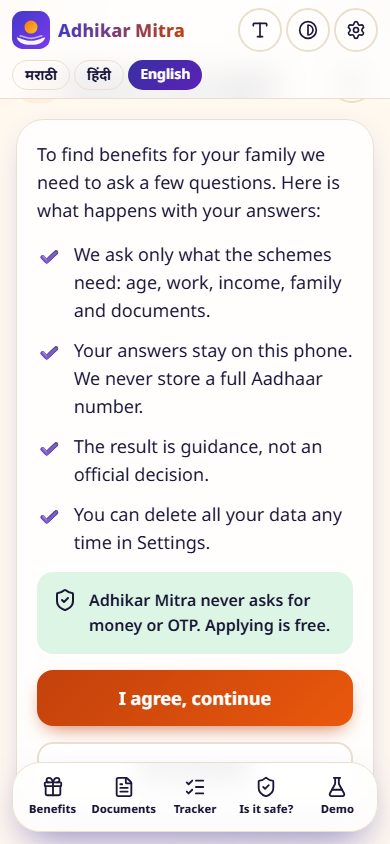
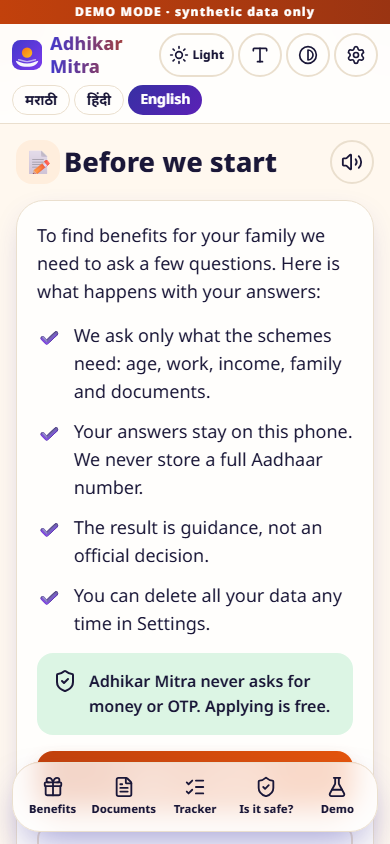
feat(ui): Light/Dark/Auto theme (Light default); fix: instant loading feedback, bundled fonts, npm run demo
fix: first page visits in dev mode looked frozen (compile time); add loading screen, busy state and a one-command production demo
fix: self-hosted Noto fonts so build and run never need the internet
test(e2e): theme toggle, persistence and dark-mode contrast audit
fix(a11y): danger button contrast in dark theme

diff --git a/src/app/page.tsx b/src/app/page.tsx
@@ -1,8 +1,9 @@
 "use client";
 import { Volume2 } from "lucide-react";
 import { useRouter } from "next/navigation";
-import { useEffect } from "react";
+import { useEffect, useState } from "react";
 import { HeroOrbit, Logo } from "@/components/fx";
+import { ThemeToggle } from "@/components/ThemeToggle";
 import { APP } from "@/config/app";
 import { LOCALES, LOCALE_NAMES, translate, type Locale } from "@/lib/i18n";
 import { patch, useAppState } from "@/lib/store";
@@ -18,13 +19,16 @@ export default function LanguagePage() {
   useEffect(() => {
     document.body.dataset.hydrated = "1"; // end-to-end tests wait for this
   }, []);
+  const [busy, setBusy] = useState<Locale | null>(null);
   const choose = (l: Locale) => {
+    setBusy(l); // instant feedback: the first page visit can take a moment while it loads
     patch({ locale: l });
     const hasFamily = s.consent && s.families.length > 0;
     router.push(`/${l}/${hasFamily ? "benefits" : "consent"}`);
   };
   return (
     <main className="mx-auto flex min-h-dvh max-w-xl flex-col gap-5 px-4 py-5">
+      <div className="flex justify-end"><ThemeToggle /></div>
       <section className="hero rise px-5 pb-6 pt-6 text-center">
         <div className="mb-1 flex items-center justify-center gap-3">
           <Logo size={46} />
@@ -50,7 +54,7 @@ export default function LanguagePage() {
               className="btn btn-primary flex-1 !min-h-[5rem] !justify-start gap-4 !px-4 !text-3xl"
             >
               <span aria-hidden className="inline-flex h-14 w-14 items-center justify-center rounded-2xl text-2xl" style={{ background: "var(--grad-sun)" }}>{GLYPH[l]}</span>
-              {LOCALE_NAMES[l]}
+              {busy === l ? "…" : LOCALE_NAMES[l]}
             </button>
             <button
               onClick={() => speak(`${LOCALE_NAMES[l]}`, l)} aria-label={`${translate(l, "a11y.readAloud")}: ${LOCALE_NAMES[l]}`}
@@ -61,6 +65,13 @@ export default function LanguagePage() {
           </li>
         ))}
       </ul>
+      {busy && (
+        <div className="fixed inset-0 z-50 flex flex-col items-center justify-center gap-4 text-white" style={{ background: "var(--grad-hero)" }} role="status" aria-live="polite">
+          <Logo size={72} />
+          <div className="h-2 w-48 overflow-hidden rounded-full bg-white/25"><div className="h-2 w-1/2 animate-pulse rounded-full" style={{ background: "var(--grad-sun)" }} /></div>
+          <p className="text-lg font-bold">{translate(busy, "common.loading")}</p>
+        </div>
+      )}
       <p className="rise rise-4 text-center text-sm font-bold">🛡 {translate("en", "footer.noMoney")}</p>
     </main>
   );

diff --git a/tests/e2e/theme.spec.ts b/tests/e2e/theme.spec.ts
@@ -1,0 +1,41 @@
+import AxeBuilder from "@axe-core/playwright";
+import { expect, test } from "@playwright/test";
+
+/** Light is the default; the toggle switches to Dark and Auto; the choice survives a reload with no flash of the wrong theme. */
+test("theme: light by default, toggle to dark, persists, and dark passes the contrast audit", async ({ page }) => {
+  // The phone itself prefers dark, but the app still starts in Light.
+  await page.emulateMedia({ colorScheme: "dark" });
+  await page.goto("/en/login");
+  await page.waitForSelector('body[data-hydrated="1"]');
+  expect(await page.evaluate(() => document.documentElement.classList.contains("dark"))).toBe(false);
+
+  await page.getByTestId("persona-ramesh").click();
+  await page.waitForURL(/benefits/);
+  const toggle = page.getByTestId("theme-toggle");
+  await expect(toggle).toHaveAttribute("aria-label", /Light/);
+  await toggle.click(); // Light -> Dark
+  await expect(page.locator("html")).toHaveClass(/dark/);
+  await expect(toggle).toHaveAttribute("aria-label", /Dark/);
+
+  await page.reload();
+  await page.waitForSelector('body[data-hydrated="1"]');
+  await expect(page.locator("html")).toHaveClass(/dark/);
+
+  for (const s of ["benefits", "documents", "tracker", "scam-check", "settings"]) {
+    await page.goto(`/en/${s}`);
+    await page.waitForSelector('body[data-hydrated="1"]');
+    await page.waitForTimeout(1200);
+    const r = await new AxeBuilder({ page }).withTags(["wcag2a", "wcag2aa"]).exclude(".leaflet-container").analyze();
+    const bad = r.violations.filter((v) => v.impact === "serious" || v.impact === "critical")
+      .map((v) => `${s}: ${v.id} :: ${v.nodes.slice(0, 2).map((n) => `${n.target.join(" ")} ${(n.any[0]?.message ?? "").slice(0, 90)}`).join(" || ")}`);
+    expect(bad, bad.join("\n")).toEqual([]);
+  }
+
+  // Auto follows the phone (which prefers dark here), then Light again.
+  await page.goto("/en/settings");
+  await page.waitForSelector('body[data-hydrated="1"]');
+  await page.getByTestId("theme-light").click();
+  await expect(page.locator("html")).not.toHaveClass(/dark/);
+  await page.getByTestId("theme-system").click();
+  await expect(page.locator("html")).toHaveClass(/dark/);
+});

diff --git a/src/app/globals.css b/src/app/globals.css
@@ -23,6 +23,7 @@
   --success: #166534;
   --success-soft: #dcf5e4;
   --danger: #b91c1c;
+  --danger-fg: #ffffff;
   --danger-soft: #fde8e8;
   --warn-soft: #fff4c7;
   --ring: #c2410c;
@@ -31,26 +32,27 @@
   --grad-sun: linear-gradient(135deg, #f97316 0%, #fbbf24 100%);
   --grad-ok: linear-gradient(135deg, #16a34a, #2dd4bf);
 }
-@media (prefers-color-scheme: dark) {
-  :root:not(.light) {
-    --bg: #0f0e1d;
-    --fg: #f3f0ea;
-    --card: #1b1a30;
-    --card-glass: rgba(27, 26, 48, 0.78);
-    --muted: #b8b5d2;
-    --border: #35334f;
-    --primary: #a5b4fc;
-    --primary-fg: #12111f;
-    --accent: #fb923c;
-    --accent-fg: #1b1a30;
-    --accent-soft: #3a2415;
-    --success: #4ade80;
-    --success-soft: #12301d;
-    --danger: #f87171;
-    --danger-soft: #3a1717;
-    --warn-soft: #3a3314;
-    --shadow: 0 10px 30px -12px rgba(0, 0, 0, 0.7);
-  }
+/* Dark theme is applied with the `dark` class (set from the Light / Dark / System choice, see ThemeScript). */
+:root.dark {
+  color-scheme: dark;
+  --bg: #0f0e1d;
+  --fg: #f3f0ea;
+  --card: #1b1a30;
+  --card-glass: rgba(27, 26, 48, 0.78);
+  --muted: #b8b5d2;
+  --border: #35334f;
+  --primary: #a5b4fc;
+  --primary-fg: #12111f;
+  --accent: #fb923c;
+  --accent-fg: #1b1a30;
+  --accent-soft: #3a2415;
+  --success: #4ade80;
+  --success-soft: #12301d;
+  --danger: #f87171;
+  --danger-fg: #2a0a0a;
+  --danger-soft: #3a1717;
+  --warn-soft: #3a3314;
+  --shadow: 0 10px 30px -12px rgba(0, 0, 0, 0.7);
 }
 .high-contrast {
   --bg: #ffffff; --fg: #000000; --card: #ffffff; --card-glass: #ffffff; --muted: #1a1a1a; --border: #000000;
@@ -62,7 +64,8 @@ html.large-text { font-size: 20px; }
 body {
   background: var(--bg);
   color: var(--fg);
-  font-family: var(--font-noto), var(--font-noto-deva), system-ui, sans-serif;
+  /* Fonts are bundled locally (@fontsource), so the app never needs the internet to render text. */
+  font-family: "Noto Sans Variable", "Noto Sans Devanagari Variable", "Nirmala UI", system-ui, sans-serif;
   line-height: 1.55;
   min-height: 100dvh;
 }

diff --git a/src/app/[locale]/settings/page.tsx b/src/app/[locale]/settings/page.tsx
@@ -32,6 +32,19 @@ export default function SettingsPage() {
           ))}
         </div>
       </section>
+      <section className="card mb-4" aria-labelledby="theme-h">
+        <h2 id="theme-h" className="mb-2 text-lg font-bold">{t("set.theme")}</h2>
+        <div className="grid grid-cols-3 gap-2" role="radiogroup" aria-label={t("set.theme")}>
+          {(["light", "dark", "system"] as const).map((th) => (
+            <button
+              key={th} role="radio" aria-checked={s.theme === th} onClick={() => patch({ theme: th })} data-testid={`theme-${th}`}
+              className={`btn !min-h-[3.5rem] !px-2 !text-base ${s.theme === th ? "btn-primary" : "btn-ghost"}`}
+            >
+              <span aria-hidden>{th === "light" ? "☀" : th === "dark" ? "🌙" : "🖥"}</span> {t(`theme.${th}`)}
+            </button>
+          ))}
+        </div>
+      </section>
       <section className="card mb-4 flex flex-col gap-3">
         <h2 className="text-lg font-bold">{t("set.display")}</h2>
         <label className="flex items-center gap-3 text-lg"><input type="checkbox" className="h-6 w-6" checked={s.largeText} onChange={(e) => patch({ largeText: e.target.checked })} /> {t("a11y.largeText")}</label>
@@ -41,7 +54,7 @@ export default function SettingsPage() {
         <h2 className="mb-2 text-lg font-bold">{t("set.privacy")}</h2>
         <p>{t("set.privacyText")}</p>
         <p className="mt-2 text-sm muted">{t("set.stored", { n: s.families.length })}</p>
-        <button className="btn mt-3 w-full" style={{ background: "var(--danger)", color: "#fff" }} onClick={deleteAll} data-testid="delete-data">🗑 {t("set.delete")}</button>
+        <button className="btn mt-3 w-full" style={{ background: "var(--danger)", color: "var(--danger-fg)" }} onClick={deleteAll} data-testid="delete-data">🗑 {t("set.delete")}</button>
         {deleted && <p className="mt-2 font-bold" role="status" data-testid="deleted">{t("set.deleted")}</p>}
       </section>
       <section className="card text-sm">

diff --git a/src/components/ThemeToggle.tsx b/src/components/ThemeToggle.tsx
@@ -1,0 +1,36 @@
+"use client";
+import { Monitor, Moon, Sun } from "lucide-react";
+import { useEffect } from "react";
+import { translate, useLocaleOr } from "@/lib/i18n";
+import { patch, useAppState } from "@/lib/store";
+
+/**
+ * Light / Dark / System switch. Light is the default. "System" follows the phone and reacts to changes.
+ * The class on <html> is also set before first paint by the inline script in the root layout.
+ */
+export function ThemeToggle({ className = "", onDark = false }: { className?: string; onDark?: boolean }) {
+  const s = useAppState();
+  const locale = useLocaleOr();
+  useEffect(() => {
+    const mq = window.matchMedia("(prefers-color-scheme: dark)");
+    const apply = () => document.documentElement.classList.toggle("dark", s.theme === "dark" || (s.theme === "system" && mq.matches));
+    apply();
+    if (s.theme !== "system") return;
+    mq.addEventListener("change", apply);
+    return () => mq.removeEventListener("change", apply);
+  }, [s.theme]);
+
+  const label = `${translate(locale, "a11y.theme")}: ${translate(locale, `theme.${s.theme}`)}`;
+  const next = s.theme === "light" ? "dark" : s.theme === "dark" ? "system" : "light";
+  const Icon = s.theme === "light" ? Sun : s.theme === "dark" ? Moon : Monitor;
+  return (
+    <button
+      type="button" data-testid="theme-toggle" aria-label={label} title={label} onClick={() => patch({ theme: next })}
+      className={`inline-flex h-11 min-w-11 items-center justify-center gap-1 rounded-full border-2 px-2 ${className}`}
+      style={{ borderColor: onDark ? "rgba(255,255,255,.5)" : "var(--border)", color: onDark ? "#fff" : undefined }}
+    >
+      <Icon aria-hidden size={20} />
+      <span className="text-xs font-extrabold">{translate(locale, `theme.${s.theme}`)}</span>
+    </button>
+  );
+}

diff --git a/src/app/layout.tsx b/src/app/layout.tsx
@@ -1,10 +1,8 @@
 import type { Metadata, Viewport } from "next";
-import { Noto_Sans, Noto_Sans_Devanagari } from "next/font/google";
+import "@fontsource-variable/noto-sans";
+import "@fontsource-variable/noto-sans-devanagari";
 import { APP } from "@/config/app";
 import "./globals.css";
-
-const noto = Noto_Sans({ subsets: ["latin"], variable: "--font-noto", display: "swap" });
-const notoDeva = Noto_Sans_Devanagari({ subsets: ["devanagari"], variable: "--font-noto-deva", display: "swap" });
 
 export const metadata: Metadata = {
   title: `${APP.name} (${APP.nameLocal})`,
@@ -13,9 +11,20 @@ export const metadata: Metadata = {
 };
 export const viewport: Viewport = { width: "device-width", initialScale: 1, themeColor: "#3730a3" };
 
+/**
+ * Applies the saved Light / Dark / System choice before first paint, so there is no flash of the wrong theme.
+ * The default is Light. Storage can be unavailable (private mode), so everything is wrapped in try/catch.
+ */
+const THEME_SCRIPT = `(function(){try{var t="light";try{var s=JSON.parse(localStorage.getItem("adhikar-mitra:v1")||"{}");if(s&&s.theme)t=s.theme}catch(e){}
+var d=t==="dark"||(t==="system"&&window.matchMedia&&window.matchMedia("(prefers-color-scheme: dark)").matches);
+document.documentElement.classList.toggle("dark",d)}catch(e){}})();`;
+
 export default function RootLayout({ children }: { children: React.ReactNode }) {
   return (
-    <html lang="en" className={`${noto.variable} ${notoDeva.variable}`}>
+    <html lang="en" suppressHydrationWarning>
+      <head>
+        <script dangerouslySetInnerHTML={{ __html: THEME_SCRIPT }} />
+      </head>
       <body>{children}</body>
     </html>
   );

diff --git a/src/components/Shell.tsx b/src/components/Shell.tsx
@@ -1,5 +1,6 @@
 "use client";
 import { Contrast, FileText, FlaskConical, Gift, LayoutDashboard, ListChecks, Settings, ShieldCheck, Type, Users } from "lucide-react";
+import { ThemeToggle } from "@/components/ThemeToggle";
 import Link from "next/link";
 import { usePathname } from "next/navigation";
 import { useEffect, type ReactNode } from "react";
@@ -72,6 +73,7 @@ export function Shell({ children }: { children: ReactNode }) {
             <span className="grad-text text-lg leading-tight">{locale === "en" ? APP.name : APP.nameLocal}</span>
           </Link>
           <div className="ml-auto flex items-center gap-1">
+            <ThemeToggle />
             <button
               type="button" className="inline-flex h-11 w-11 items-center justify-center rounded-full border-2" style={{ borderColor: "var(--border)" }}
               aria-pressed={s.largeText} aria-label={t("a11y.largeText")} title={t("a11y.largeText")}

diff --git a/src/lib/store/index.ts b/src/lib/store/index.ts
@@ -54,6 +54,7 @@ export interface AppState {
   role: Role;
   largeText: boolean;
   highContrast: boolean;
+  theme: "light" | "dark" | "system";
   asOfDate: string;
   families: Family[];
   activeId: string | null;
@@ -66,7 +67,7 @@ export interface AppState {
 const KEY = "adhikar-mitra:v1";
 const today = () => new Date().toISOString().slice(0, 10);
 export const initialState = (): AppState => ({
-  v: 1, locale: null, consent: false, role: "CITIZEN", largeText: false, highContrast: false,
+  v: 1, locale: null, consent: false, role: "CITIZEN", largeText: false, highContrast: false, theme: "light",
   asOfDate: today(), families: [], activeId: null, notifications: [], camps: [], lifeLog: [], online: true,
 });
 

diff --git a/src/app/[locale]/loading.tsx b/src/app/[locale]/loading.tsx
@@ -1,0 +1,13 @@
+import { Logo } from "@/components/fx";
+
+/** Shown instantly while a page loads, so navigation never looks frozen. */
+export default function Loading() {
+  return (
+    <div className="flex min-h-[50vh] flex-col items-center justify-center gap-4" role="status" aria-live="polite" aria-label="Loading">
+      <div className="bob"><Logo size={64} /></div>
+      <div className="h-2 w-44 overflow-hidden rounded-full" style={{ background: "var(--border)" }}>
+        <div className="h-2 w-1/2 animate-pulse rounded-full" style={{ background: "var(--grad-sun)" }} />
+      </div>
+    </div>
+  );
+}

diff --git a/src/lib/i18n/index.tsx b/src/lib/i18n/index.tsx
@@ -21,6 +21,10 @@ export function LocaleProvider({ locale, children }: { locale: Locale; children:
 export function useLocale(): Locale {
   return useContext(Ctx);
 }
+/** Same as useLocale, for components that can also render outside a locale route (falls back to the saved choice, then English). */
+export function useLocaleOr(): Locale {
+  return useContext(Ctx);
+}
 export function useT() {
   const locale = useContext(Ctx);
   return {

diff --git a/README.md b/README.md
@@ -69,10 +69,12 @@ npm i
 cp .env.example .env
 npx prisma db push
 npm run seed
-npm run dev
+npm run demo
 ```
 
-Open <http://localhost:3000>. Node 20+ is recommended. (This project was built with `npm i --legacy-peer-deps` on Windows; if `npm i` complains about peers, add that flag.)
+Open <http://localhost:3000>. `npm run demo` builds the app once (about a minute) and then every page opens instantly. On Windows PowerShell use `copy .env.example .env`. `npm run dev` also works, but in dev mode each page compiles the first time you open it (several seconds), which can look like the app is frozen. Node 20+ is recommended; if `npm i` complains about peer dependencies, add `--legacy-peer-deps`. Fonts are bundled, so no internet is needed except for map tiles and the first OCR run.
+
+The app starts in **Light** theme. Use the sun/moon button in the header (or Settings) to switch between Light, Dark and Auto.
 
 Other scripts: `npm test` (unit), `npm run e2e` (Playwright), `npm run screenshots`, `npm run lint`, `npm run typecheck`, `npm run build`, `npm run docs:sources`, `npm run assets`.
 
